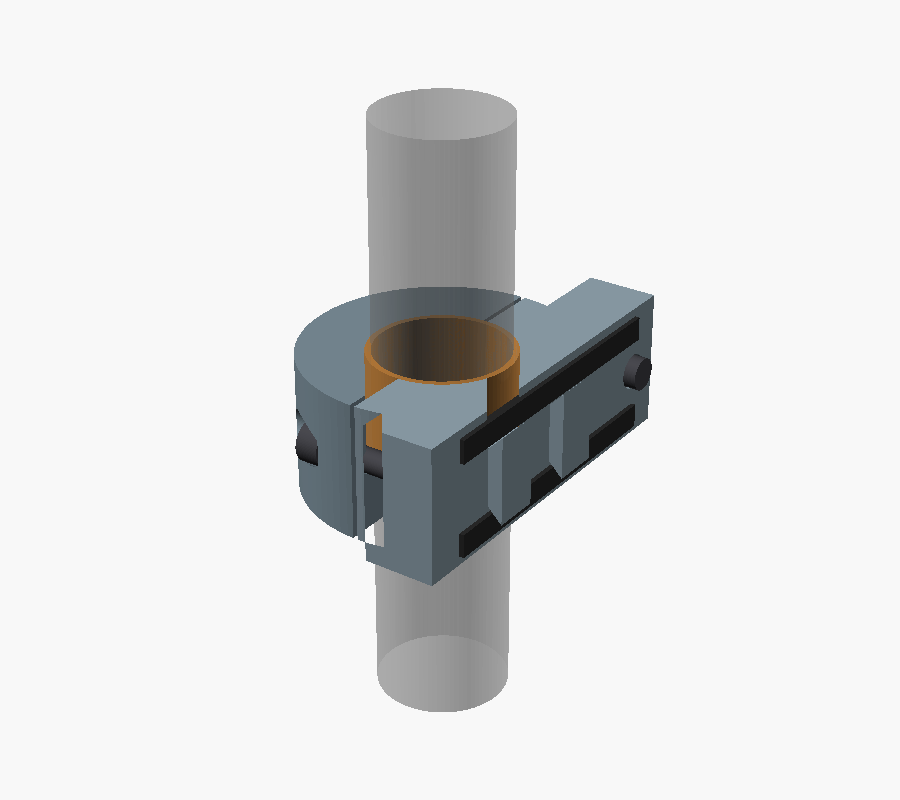
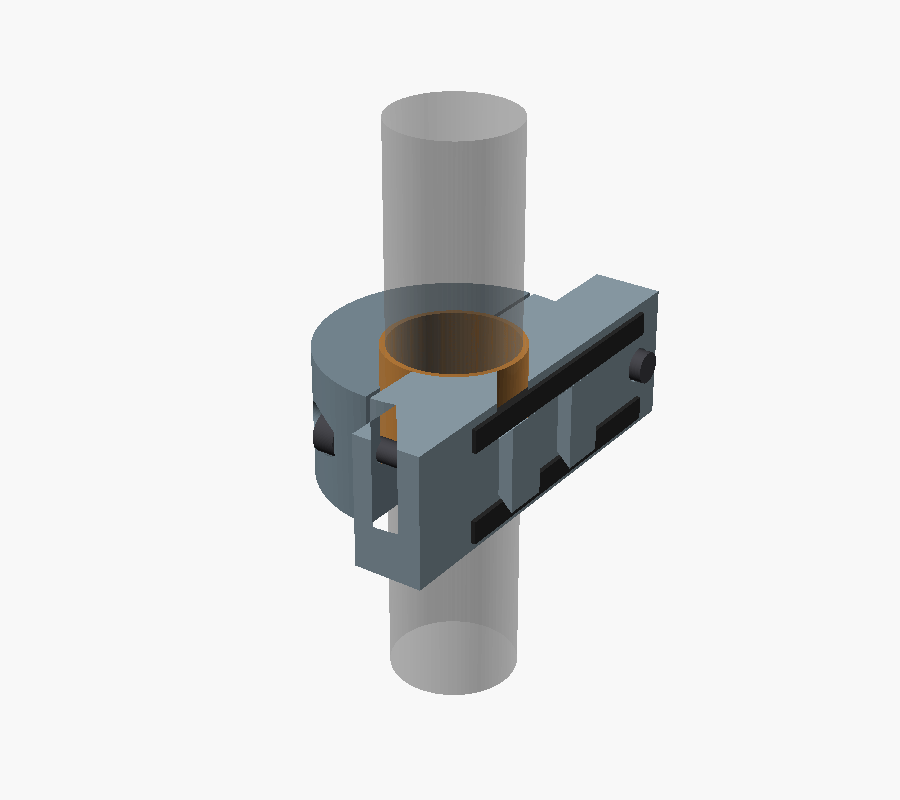
Charge V0.24 through a sealed USB-C receptacle
Replace the two brass charge contacts and the planned charging dock
with a charge-only IP67 USB-C receptacle in the remote's rear face,
above the dovetail groove. A small breakout PCB carries the 5.1 kohm
CC pull-downs; VBUS and GND go to the joystick PCB input. The wall is
thinned from inside for the panel gasket, and the base platform grows
to Y = 33.5 mm so it covers the receptacle on the bike.

No part is chosen yet: the receptacle sizes are typical values marked
MEASURE. Renders, the fitting animation and the docs are updated.

Changed region(s): [[0.3111, 0.125, 0.7467, 0.9062], [0.4356, 0.0938, 0.4978, 0.125]]

diff --git a/docs/mechanical-concept.md b/docs/mechanical-concept.md
@@ -1,6 +1,6 @@
 # Complete Mechanical CAD — V0.24 Removable Remote
 
-V0.24 makes the remote removable and battery powered, following the [battery study](battery-study.md) and issue #1. A base stays clamped on each bike; the remote slides onto it on an interrupted dovetail and is held by a spring-loaded lock. A fixed LiPo pouch powers it, and it is charged off the bike through two contacts on its back. Everything in front of the remote's rear face is the V0.23 pod, unchanged. The changes are listed under [Changes from V0.23](#changes-from-v023).
+V0.24 makes the remote removable and battery powered, following the [battery study](battery-study.md) and issue #1. A base stays clamped on each bike; the remote slides onto it on an interrupted dovetail and is held by a spring-loaded lock. A fixed LiPo pouch powers it, and it is charged off the bike through a sealed USB-C receptacle on its back. Everything in front of the remote's rear face is the V0.23 pod, unchanged. The changes are listed under [Changes from V0.23](#changes-from-v023).
 
 V0.23 fitted the V0.22 joystick to a real PCB, designed in KiCad: the [joystick PCB](../electronics/joystick-pcb/README.md) carries the four switches and the 5 V input protection. V0.22 put a joystick back on the lower facet, built from low-cost parts, and widened the control end of the pod from 23 to 26 mm. The base and the rear of the pod stay 23 mm wide along the bar.
 
@@ -22,13 +22,13 @@ The remote mounts on the left side of the bar only, never the right. The turn-si
 
 ![V0.24 base on the bar: the clamp ring, the platform with two dovetail rail segments, the two black TPU anti-rattle strips, and the lock screw head below the rails.](images/complete-remote-v0.24-base.png)
 
-![V0.24 remote seen from the bar side: the rear face with the lock hole (left), the interrupted dovetail groove (centre) and the two charge contacts (right).](images/complete-remote-v0.24-back.png)
+![V0.24 remote seen from the bar side: the rear face with the lock hole (left), the interrupted dovetail groove (centre) and the USB-C opening (right).](images/complete-remote-v0.24-back.png)
 
 ![V0.24 dovetail section through the lower rail: the 45-degree rail on the base (right) inside the groove in the remote's rear wall (left), and the TPU strips either side, drawn at their uncompressed thickness.](images/complete-remote-v0.24-dovetail.png)
 
 ![V0.24 section through the middle of the pod and the base.](images/complete-remote-v0.24-section.png)
 
-![V0.24 interior with the upper axial wall removed: the LiPo pouch envelope (red) in the lower rear of the cavity, below the XIAO; the charge contacts at the top of the rear wall.](images/complete-remote-v0.24-interior.png)
+![V0.24 interior with the upper axial wall removed: the LiPo pouch envelope (red) in the lower rear of the cavity, below the XIAO; the USB-C receptacle and its breakout PCB (green) at the top of the rear wall.](images/complete-remote-v0.24-interior.png)
 
 The control end is unchanged from V0.23. These V0.23 renders still show it:
 
@@ -52,7 +52,7 @@ All images are direct OpenSCAD renders of the V0.24 or V0.23 file. The PCB image
 
 ### Base and remote
 
-- **Base.** The clamp ring stays on the bar: two halves split through the bar axis, two M4 × 16 bolts, M4 inserts in the front half, a 1 mm TPU liner. Its outside grows from Ø44 to Ø46 mm, and the bolts move from ±17 to ±18.5 mm, so the same layout suits a 25.4 mm bore. In front of the bar the base is cut flat at X = −17.2 mm (`platform_x`), 3.5 mm in front of the 25.4 mm bore with its liner. That flat platform runs from Y = −36 to +27 mm.
+- **Base.** The clamp ring stays on the bar: two halves split through the bar axis, two M4 × 16 bolts, M4 inserts in the front half, a 1 mm TPU liner. Its outside grows from Ø44 to Ø46 mm, and the bolts move from ±17 to ±18.5 mm, so the same layout suits a 25.4 mm bore. In front of the bar the base is cut flat at X = −17.2 mm (`platform_x`), 3.5 mm in front of the 25.4 mm bore with its liner. That flat platform runs from Y = −36 to +33.5 mm.
 - **Bar sizes.** One base per bar size: `bar_diameter` = 22.2 (7/8 in) or 25.4 (1 in). The bore changes; nothing that meets the remote does. Tapered 28.6 mm bars come down to 22.2 mm at the controls.
 - **Remote.** The V0.23 pod without the ring and the shoulders, cut flat at X = −17.4 mm (`rear_x`). The cavity's rear wall moves from X = −22 to −21.2 mm, which gives the XIAO pins 2.2 mm instead of 1.4 mm.
 
@@ -87,7 +87,7 @@ The [battery study](battery-study.md) first proposed a bayonet turning around th
 ### Battery, charging and vent
 
 - **LiPo pouch.** A fixed pouch in the lower rear of the cavity, below the XIAO and behind the USB-C plug zone: envelope X = −29 to −22, Y = −33.5 to −2.5 mm, 21 mm along the bar. It takes a 6 × 20 × 30 mm pouch (602030, about 300 mAh in listings, not verified) with 0.5 mm all round. That space was free in V0.23 apart from the cable route; the earlier fit search had excluded everything below the fold. The pouch is held with foam tape and wired to the XIAO `BAT` pads.
-- **Charge contacts.** Two M2 brass heat-set inserts through the 3.8 mm rear wall, at Y = 24.5 mm and 3.5 mm from each axial face. They are above the groove, so the platform (to Y = +27 mm) covers them on the bike. Inside, M2 × 4 screws hold the wire ring tags; the wires go to the joystick PCB 5 V input, through its PTC fuse and TVS diode. A charging dock, a base-shaped block with two spring pins and a USB-C input, is not modelled yet.
+- **USB-C charging.** A charge-only (6-contact) IP67 USB-C receptacle in the rear face, centred at Y = 29.5 mm with its long side along the bar. It sits above the groove, so the platform (to Y = +33.5 mm) covers it on the bike; any USB-C cable charges the remote off the bike, and no charging dock is needed. The receptacle is on a small breakout PCB with the two 5.1 kΩ CC pull-downs, without which a USB-C charger supplies no 5 V. Its front is flush with the rear face; the wall is thinned from inside to 1.5 mm (`usbc_panel_t`) for its panel gasket. VBUS and GND go to the joystick PCB 5 V input, through its PTC fuse and TVS diode. This port only charges: the XIAO's own USB-C stays for programming. No specific part is chosen yet; the CAD uses typical sizes (shell 8.94 × 3.26 mm, gasket 10.8 × 5.2 mm, 7.5 mm deep), marked `MEASURE`. Earlier in this branch the charge path was two brass contacts and a charging dock; USB-C replaced them because it needs no dock, is keyed, and is a standard.
 - **No cable gland.** The bike cable, the gland and its lock nut are gone.
 - **Vent.** It moves from the axial wall to the bottom end wall at X = −32 mm, where the gland was, so the pouch does not cover it.
 
@@ -99,7 +99,7 @@ The LCSC land pattern for the KSC222JLFS (C221728) puts its pads 0.95 mm outside
 - **PCB outline.** A 20.6 × 22.4 mm rectangle with a 3.3 mm radius notch around each lower cover-screw boss. The boss ends reach 0.25 mm past the PCB front face, so the board must clear them. The CAD and the KiCad board use the same numbers.
 - **Rear zone.** 1.0 mm behind the whole board for solder joints, vias and screw heads, and 3.0 mm in the upper half and in the two side strips for the TVS diode (2.45 mm maximum), the PTC fuse and the soldered wires. The lower middle stays at 1.0 mm because a USB-C plug in the XIAO passes close behind it when the cover is off.
 - **PCB screws.** M2 × 8 button heads, at most Ø3.5 × 1.1 mm. A pan head (1.6 mm) would touch the 12 mm wide USB-C overmold envelope with the cover off.
-- **Power input.** The 5 V input goes to the joystick PCB, through a PTC fuse and a TVS diode, and the PCB feeds the XIAO's 5V pin. In V0.24 that input comes from the charge contacts instead of the bike cable.
+- **Power input.** The 5 V input goes to the joystick PCB, through a PTC fuse and a TVS diode, and the PCB feeds the XIAO's 5V pin. In V0.24 that input comes from the charging USB-C receptacle instead of the bike cable.
 - **Firmware.** The specification now describes the four-switch chord as the centre press; D7 is unused. The diagnostic sketch implements the chord; a separate centre switch on D7 remains as a build option for the breadboard.
 
 ## V0.22 changes from V0.21, still current
@@ -146,7 +146,7 @@ V0.22 keeps from V0.21 the sheet gasket and the plate that clamps it, and replac
 
 ## Interior space check
 
-The OpenSCAD console reports these values; the boolean checks below were run on the rendered meshes. The V0.24 checks cover the base, the dovetail, the lock, the pouch and the contacts. The control-end checks were run on V0.23 and not repeated: nothing in front of the remote's rear face changed except the rear wall, which moved 0.8 mm away from the controls.
+The OpenSCAD console reports these values; the boolean checks below were run on the rendered meshes. The V0.24 checks cover the base, the dovetail, the lock, the pouch and the USB-C receptacle. The control-end checks were run on V0.23 and not repeated: nothing in front of the remote's rear face changed except the rear wall, which moved 0.8 mm away from the controls.
 
 V0.24:
 
@@ -158,8 +158,9 @@ V0.24:
 | Remote part way along the slide (2, 4.5 and 7 mm from the stop) | No overlap with the base or the flush lock |
 | TPU strips vs remote | Overlap by design: the strips are compressed |
 | Lock knob vs base and bolts, locked and pulled | Contact only, where it rests on the platform block |
-| Pouch envelope vs housing, XIAO, USB-C plug (cover off), joystick, cover bosses, contacts, vent label | No overlap |
-| Charge-contact inserts and ring tags vs housing, XIAO, its rails, cover bosses | No overlap |
+| Pouch envelope vs housing, XIAO, USB-C plug (cover off), joystick, cover bosses, USB-C receptacle and PCB, vent label | No overlap |
+| USB-C receptacle, gasket and breakout PCB vs housing, XIAO, its rails, cover bosses, buttons, joystick | No overlap; the gasket only touches its land |
+| USB-C cable plug (12.4 × 6.5 mm overmold) vs housing, remote off the base | No overlap |
 | XIAO envelope vs housing | No overlap in place, nor 11 and 22 mm along its slide-in path |
 | XIAO pin tips to cavity rear wall | 2.2 mm |
 | Groove floor to cavity; lock hole bottom to cavity | 1.3 mm; 1.6 mm |
@@ -201,7 +202,7 @@ V0.24 aims for rain and spray resistance, not an IP rating. It has not been test
 1. **Buttons.** Use buttons rated for front-panel sealing (IP67 or better), with their panel gasket. This has not been verified for the APEM IS order codes; check the datasheets before buying.
 2. **Joystick.** The cover hole is open to the outside. The sheet gasket is the seal there: it is clamped all round the hole and grips the stick. A printed TPU sheet that flexes with every stick movement may tear or creep; a cast silicone sheet would last longer.
 3. **Cover joint.** The gasket and ten screws. On the lower facet the sheet is clamped over the whole facet. Elsewhere the land is the 2 mm wall of the wide part.
-4. **Charge contacts.** The two brass inserts pass through the rear wall. Pot them from inside with epoxy around the inserts and the ring tags. The groove and the lock hole are blind and do not open into the cavity.
+4. **USB-C.** Use a receptacle rated IP67 when unplugged, sealed through its body, with its panel gasket compressed on the thinned land. Pot the back of the receptacle and its PCB with epoxy as a second barrier. On the bike the platform covers it. The groove and the lock hole are blind and do not open into the cavity.
 5. **Vent.** An adhesive ePTFE vent label over the Ø3 mm hole in the bottom end wall, inside. Without it, temperature cycles pump humid air into a sealed box, and the water condenses inside. Mount the base so the vent faces down or sideways, not into spray.
 6. **Electronics.** Coat the XIAO, the joystick PCB and all solder joints with conformal coating (acrylic or silicone). Keep it off the USB-C socket, the switch actuators, the pouch, and the vent membrane.
 7. **Printed walls.** The narrow rear part still has 1 mm axial walls, only two perimeters with a 0.4 mm nozzle, and FDM layers can leak. Print PETG hot and slow for good layer bonding, or seal the outside with a thin coat of epoxy or lacquer.
@@ -223,7 +224,7 @@ V0.24 aims for rain and spray resistance, not an IP rating. It has not been test
 | Anti-rattle strips ×2 | not modelled as print parts | 4 × 50 × 1.4 mm | TPU, or cut from rubber sheet |
 
 No part needs supports.
-- **Housing:** the walls are vertical, the lower facet is an open edge in the air, the lower screw bosses lean 20°, and the cavity's rear wall bridges 21 mm. The XIAO rails have 45° chamfers. The groove is at the top: its lips narrow upward at 45°, and the lock and contact holes open upward. It stands on its thin front rim, so use a brim.
+- **Housing:** the walls are vertical, the lower facet is an open edge in the air, the lower screw bosses lean 20°, and the cavity's rear wall bridges 21 mm. The XIAO rails have 45° chamfers. The groove is at the top: its lips narrow upward at 45°, and the lock hole and the USB-C slot open upward; the gasket land is a shallow recess in the bridged rear wall. It stands on its thin front rim, so use a brim.
 - **Base front:** the rail flanks are at 45° to the bed. The lock pocket and the bolt holes run horizontally and are small enough to bridge.
 - **Cover:** the Ø5 mm stick hole is small enough to bridge. It stands on a 2.5 mm edge, so use a brim.
 - **Ball and disc:** the ball above the disc narrows upward. Test the press fit of the pin in the Ø2.95 mm bore (`pin_bore`) before assembly.
@@ -234,14 +235,14 @@ No part needs supports.
 ## Assembly
 
 Remote:
-1. Press the ten M2 inserts into the housing screw bosses, and the two M2 charge-contact inserts into the rear wall from outside, flush with the rear face.
+1. Press the ten M2 inserts into the housing screw bosses.
 2. Mount the three buttons in the cover.
 3. Solder the four KSC2 switches to the front of the joystick PCB, and the PTC fuse and TVS diode to the rear (or order the board assembled).
 4. Push the stick through the joystick plate from the back, so the ball sits in its seat. Screw the PCB onto the plate standoffs with two M2 × 8 button-head screws (head at most Ø3.5 × 1.1 mm); the disc rests on the switches.
 5. Solder six wires from the rear pads of the joystick PCB to the XIAO: U, D, L, R to D3–D6, G to GND and 5V to the 5V pin. Lead them away from the top edge of the PCB. Solder the button wires as before.
-6. Crimp or solder ring tags to two wires and screw them to the charge-contact inserts from inside with M2 × 4 screws. Solder the other ends to the VIN and GND pads on the rear of the joystick PCB. Mark which contact is positive on the rear face. Pot the inserts from inside.
+6. Solder two wires from VBUS and GND of the USB-C breakout PCB to the VIN and GND pads on the rear of the joystick PCB. Push the receptacle through its slot from inside, with its gasket on the land, and pot its back and the PCB with epoxy, keeping epoxy out of the opening.
 7. Slide the XIAO into the rails along +Y until it stops. Secure its free end with a drop of hot glue or silicone. Apply conformal coating to both boards.
-8. Solder the pouch leads to the XIAO `BAT` pads, red to `BAT+`. Stick the pouch to the rear wall in the lower rear of the cavity with foam tape. Check the polarity before connecting USB-C or the charge contacts.
+8. Solder the pouch leads to the XIAO `BAT` pads, red to `BAT+`. Stick the pouch to the rear wall in the lower rear of the cavity with foam tape. Check the polarity before connecting either USB-C port.
 9. Stick the vent label inside over the vent hole in the bottom end wall.
 10. Lay the cover face down and the gasket on it, folded at the fold line. Push the stick through the sheet hole and the cover hole, and lay the plate on the lower-facet sheet with its screw holes over the cover's.
 11. Lower the housing onto the stack; its walls locate the plate. Turn the assembly over and fit the six M2 × 8 screws on the upper facet and the four M2 × 10 screws on the lower facet. Tighten evenly in a cross pattern.
@@ -255,7 +256,7 @@ Base:
 
 Fitting: pull the lock knob, press the remote onto the platform 9 mm below its working position, and slide it up until it stops and the lock clicks in. Removal is the reverse.
 
-To program over USB, remove the remote from the base and its cover. Take the knob off first by loosening its grub screw. The USB-C socket is on the component side at the lower end of the board and opens toward the bottom of the pod; a plug fits there with the cover off. USB-C and the charge contacts are the same supply net: never connect both. Each opening disturbs the gasket, so BLE firmware updates remain a firmware requirement.
+To program over USB, remove the remote from the base and its cover. Take the knob off first by loosening its grub screw. The USB-C socket is on the component side at the lower end of the board and opens toward the bottom of the pod; a plug fits there with the cover off. The XIAO's USB-C and the charging USB-C are the same supply net: never connect both. Each opening disturbs the gasket, so BLE firmware updates remain a firmware requirement.
 
 ## Hardware
 
@@ -266,8 +267,7 @@ Remote:
 | M2 × 8 ISO 10642 countersunk screw (upper facet) | 6 |
 | M2 × 10 ISO 10642 countersunk screw (lower facet) | 4 |
 | M2 heat-set insert, about 4 mm long (hole Ø3.2 × 6 mm in CAD) | 10 |
-| M2 brass heat-set insert, up to 3.8 mm long (charge contacts) | 2 |
-| M2 × 4 screw and M2 ring tag (charge contacts) | 2 each |
+| IP67 USB-C receptacle, 6-contact, charge only, on a breakout PCB with two 5.1 kΩ CC pull-downs (part not chosen) | 1 |
 | LiPo pouch with protection board, 6 × 20 × 30 mm (602030), about 300 mAh in listings | 1 |
 | Double-sided foam tape (pouch) | small amount |
 | C&K KSC2 sealed tact switch, 2 N, J-bend (for example KSC222JLFS) | 4 |
@@ -306,11 +306,11 @@ V0.8 follows those functional and packaging cues while keeping original geometry
 | APEM reduced bezel option | 15 mm | APEM IS series options; confirm exact ordered variant |
 | KSC2 switch | 6.2 (+0.3) × 6.2 (+0.3) mm body, 3.5 mm to the actuator top, Ø2.9 mm actuator; 2 N, 0.35 ± 0.15 mm travel (KSC22x) | C&K KSC2 datasheet; modelled at 6.5 mm |
 | Handlebar | Ø22.2 mm (7/8 in) or Ø25.4 mm (1 in) | One base per bar size; measure the actual straight section |
-| Base clamp | Ø46 mm outer diameter, Ø24.2 or Ø27.4 mm bore, flat platform at X = −17.2 mm from Y = −36 to +27 mm | Diametral split into two halves with a 0.8 mm clamping gap; not strength-validated |
+| Base clamp | Ø46 mm outer diameter, Ø24.2 or Ø27.4 mm bore, flat platform at X = −17.2 mm from Y = −36 to +33.5 mm | Diametral split into two halves with a 0.8 mm clamping gap; not strength-validated |
 | Remote rear face | Flat at X = −17.4 mm | 0.2 mm clear of the platform |
 | Dovetail | Rails 10 mm wide at the platform, 15 mm at the top, 2.5 mm high, 45° flanks; two 8 mm segments with a 9 mm gap; 7 mm lips; 0.2 mm clearance; 9 mm slide | Prints without supports on both parts; clearance to tune on the first print |
 | Lock | M3 × 20 ISO 4762 head (Ø5.5 × 3 mm) 2 mm proud, in a Ø6 mm pocket at Y = −30 mm; Ø5.8 mm hole in the remote; Ø12 × 6 mm knob | ISO 4762 head size; spring not yet chosen |
-| Charge contacts | Two M2 inserts through the 3.8 mm rear wall at Y = 24.5 mm, 3.5 mm from each axial face | Covered by the platform on the bike |
+| USB-C receptacle | Opening centred at Y = 29.5 mm in the rear face, long side along the bar; shell 8.94 × 3.26 mm, gasket 10.8 × 5.2 mm on a 1.5 mm land, 7.5 mm deep | Typical sizes; covered by the platform on the bike |
 | LiPo pouch | 6 × 20 × 30 mm envelope with 0.5 mm clearance, X = −29 to −22, Y = −33.5 to −2.5 mm | 602030 listings; measure the bought cell |
 | Pod front corners | 3 mm radius | Leaves a flat cover face for the M2 screws |
 | Folded front | Upper facet normal to the pod axis; lower facet turned 20° toward the bar, fold 12.5 mm below the bar axis | Clears the thumb's path to the turn-signal switch; the angle is a parameter |
@@ -343,12 +343,12 @@ These are the only items that block a confident first print. Each is a parameter
 - **Buttons:** exact APEM IS order codes, sealing rating, nut sizes behind the panel, terminal length, and wire exit.
 - **Joystick:** measure the KSC2 height and the printed plate, ball and disc; together with the standoffs they set the 0.05 mm rest gap (`joy_rest_gap`). The feel (4.7° to trip, 2 N per direction, about 8 N for the centre chord) and the Ø16 mm knob need a check with gloves.
 - **XIAO:** PCB thickness, header spacer height, pin length, and component height. Adjust `xiao_pcb`, `xiao_header_plastic`, `xiao_pin_length`, and `xiao_component_h`; the render stops if the pins reach the rear wall.
-- **Inserts:** hole diameters and depths for the actual M4 and M2 inserts, and a charge-contact insert no longer than the 3.8 mm rear wall.
+- **Inserts:** hole diameters and depths for the actual M4 and M2 inserts.
 - **Handlebar and liner:** measured bar diameter, and the 0.8 mm clamping gap tuned to the printed TPU liner.
 - **Dovetail:** the 0.2 mm clearance (`dt_c`) against the printer, and the strip material and thickness for the preload. Whether the 0.48 mm the remote can move toward the platform feels loose on the buttons.
 - **Lock:** a spring that fits a Ø6 mm pocket over a Ø3 mm shank and holds the head out firmly; its compressed length sets `lock_spring_solid`. The pull force, and whether 1 mm of head in the pocket is enough.
 - **Pouch:** the bought cell's size, protection board and lead exit, and its maximum charge current against the XIAO's 50 or 100 mA.
-- **Charging dock:** not designed yet; it needs spring pins that meet the contacts on a base-shaped block.
+- **USB-C receptacle:** choose a sealed, charge-only part and its breakout PCB, then set the shell, gasket, panel thickness and depth (`usbc_*`). Confirm the IP rating in its datasheet.
 - **Vent:** label diameter and required hole size.
 - **Gasket:** material, whether 0.2 mm of compression seals on a 1 mm land, and how long a printed TPU sheet lasts flexing with the stick.
 - **Fold angle:** 20° is chosen to clear the turn-signal switch. The gland that kept it from 30° is gone in V0.24, but 30° has not been rechecked, and neither angle has been checked on a bike.

diff --git a/docs/battery-study.md b/docs/battery-study.md
@@ -10,7 +10,7 @@ Decided on 2026-10-10, after the first version of this study:
 - **The main goal of issue #1 is to share one remote between several bikes.**
 - **No wiring to the bike.** The remote runs on its own battery only.
 - **Removable remote or swappable battery, not both.** Each one alone solves the battery problem; together they add a second seal, a second wear point and pod length for little gain.
-- **Therefore: a removable remote with a fixed LiPo pouch**, on an [interrupted dovetail](#removable-remote-issue-1) with one base per bike. It is charged off the bike through [sealed contacts](#charging-without-bike-wiring) on its back.
+- **Therefore: a removable remote with a fixed LiPo pouch**, on an [interrupted dovetail](#removable-remote-issue-1) with one base per bike. It is charged off the bike through a [sealed USB-C receptacle](#charging-without-bike-wiring) on its back.
 - The swappable 16340 is not pursued. Its analysis stays below as the alternative for a remote that stays on one bike.
 
 A bayonet turning around the bar was the first proposal. The V0.24 CAD showed it clashes with the clamp bolts, so V0.24 uses a sliding dovetail instead; see [Why a dovetail](#why-a-sliding-dovetail).
@@ -43,7 +43,7 @@ From Seeed's XIAO nRF52840 V1.2 KiCad project, exported to a netlist with KiCad 
 Consequences:
 - **A rechargeable Li-ion or LiPo cell on the `BAT` pad is charged whenever the 5V pin or USB-C has power.** The charger enable is not wired to a GPIO, so the firmware cannot turn charging off.
 - **A primary lithium cell (CR2450, CR2477, CR123A) must not go on the `BAT` pad.** The charger would try to charge it whenever 5 V is present. A coin-cell design like the Remotek One needs its own board without a charger.
-- With 5 V present (charge contacts or USB-C), the remote runs from 5 V and charges the cell at the same time.
+- With 5 V present (either USB-C port), the remote runs from 5 V and charges the cell at the same time.
 
 ## Battery options
 
@@ -99,7 +99,7 @@ Two ways to connect the cell:
 
 | | A: cell on the XIAO `BAT` pad | B: cell into the 5V pin through a diode |
 |---|---|---|
-| Charging | On board, at 50 or 100 mA, from the charge contacts or USB-C; a 16340 could also go in an external charger | External charger only |
+| Charging | On board, at 50 or 100 mA, from either USB-C port; a 16340 could also go in an external charger | External charger only |
 | Voltage loss | Only the MOSFET | Two Schottky drops, ours and the XIAO's (about 0.4–0.6 V together). At 3.0 V the 3.3 V rail falls to about 2.5 V. |
 | Primary CR123A | Unsafe: it gets charged | Allowed, but only with a diode that blocks any charge current |
 | Battery voltage reading | Built-in divider on AIN7 | Needs a divider on another pin |
@@ -129,7 +129,7 @@ These are continuous-connection figures. With the firmware sleeping while the bi
 | Battery tube cap (new) | Radial O-ring on a smooth land inside the tube mouth, not on the thread | An FDM bore is rough and slightly oval; the land may need reaming, a glued-in sleeve, or a printed and sanded land. Measure leakage on a test piece. |
 | Cap electrical contact | Spring in the cap on the cell's negative end, closing through a contact ring at the tube mouth inside the O-ring | The contact and its wire stay inside the seal. Contacts corrode if water gets past the O-ring. |
 | Cable gland (V0.23) | Removed in V0.24 | — |
-| Charge contacts (V0.24) | Brass inserts through the rear wall, potted from inside | The potting must cover the insert knurl and the ring tag. |
+| Charging USB-C (V0.24) | IP67 receptacle with its panel gasket on a thinned land, potted from inside | Depends on the part chosen; covered by the base on the bike. |
 
 The tube is a separate sealed volume from the electronics cavity. Only two wires pass from the tube into the cavity, sealed when printed or potted. A leak at the cap then wets the cell and its contacts, not the boards.
 
@@ -170,18 +170,20 @@ A dovetail that slides along the pod's long axis, in the plane of the clamp, avo
 
 ## Charging without bike wiring
 
-The remote is charged off the bike. The XIAO USB-C socket is inside the pod and can only be reached with the cover off, which disturbs the gasket. It stays for firmware recovery only.
+The remote is charged off the bike. The XIAO USB-C socket is inside the pod and can only be reached with the cover off, which disturbs the gasket. It stays for programming and firmware recovery only.
 
-- **Charge contacts.** V0.24 uses two M2 brass inserts through the remote's rear wall, above the dovetail groove. They are wired to the joystick PCB 5 V input and GND in place of the bike cable, so they go through its TVS diode and PTC fuse to the XIAO 5V pin.
-- **Covered when mounted.** On the base the contacts face the platform, out of the rain and mud.
-- **Dead when off the charger.** The XIAO feeds VIN from VBUS through a Schottky diode, and the battery reaches VIN through the power-path MOSFET. Neither path drives VBUS, so the pads carry no voltage when the remote runs on its battery. They cannot corrode from bias, and shorting them does no harm. This comes from the netlist and has not been measured.
-- **Charger.** A small charging dock: a base-shaped block with the same rails, two spring pins under the contacts and a USB-C input. Not designed yet.
+- **Charging USB-C.** V0.24 has a second, sealed USB-C receptacle in the remote's rear face, above the dovetail groove. It is charge-only: VBUS and GND go to the joystick PCB 5 V input, so they pass its TVS diode and PTC fuse to the XIAO 5V pin. Any USB-C cable and charger work, so no charging dock is needed.
+- **CC pull-downs.** A USB-C charger only supplies 5 V when the device pulls both CC lines down through 5.1 kΩ. The receptacle sits on a small breakout PCB that carries them.
+- **Covered when mounted.** On the base the receptacle faces the platform, out of the rain and mud. To charge, take the remote off.
+- **Dead when unplugged.** The XIAO feeds VIN from VBUS through a Schottky diode, and the battery reaches VIN through the power-path MOSFET. Neither path drives VBUS, so the receptacle carries no voltage when the remote runs on its battery. Its contacts cannot corrode from bias. This comes from the netlist and has not been measured.
 - **No cable gland.** The bike cable goes, so the gland and its lock nut go too. The gland lock nut set the 20° fold limit. The freed space at the bottom of the pod now holds the pouch.
 
+An earlier step of this branch used two bare brass contacts and a charging dock with spring pins. USB-C replaced them: it needs no dock, it only fits one way, and it is a standard. The contacts' only advantage was dropping the remote onto a dock without plugging a cable in.
+
 Points to solve:
-- **Sealing.** The inserts are a new opening in the remote's rear wall. Pot them from inside.
-- **Reverse polarity.** Bare contacts are not keyed. On the joystick PCB a reversed supply makes the TVS diode D1 conduct and the PTC fuse F1 trip ([joystick PCB notes](../electronics/joystick-pcb/README.md#circuit)). So a reversed charger should not reach the XIAO, but it heats D1 and F1 until it is removed. The dock's rails key it: the remote only slides on one way round.
-- **USB-C and pads together.** Both are the XIAO VBUS net. Do not connect both at once; with the cover off on the bench this is the user's care.
+- **Part choice.** A receptacle rated IP67 when unplugged, sealed through its body, with a panel gasket. The CAD uses typical sizes until a part is chosen.
+- **Sealing.** Pot the back of the receptacle and its PCB from inside as a second barrier.
+- **Two USB-C ports.** The XIAO's USB-C and the charging receptacle are the same VBUS net. Never connect both at once; with the cover off on the bench this is the user's care.
 
 ## Universal fit
 
@@ -205,7 +207,7 @@ These are bench measurements on the parts, not on bikes:
 
 - **Battery level.** Read AIN7 with P0.14 low. Report it over the BLE Battery Service; Bluefruit has `BLEBas`. Warn below about 3.5 V. Go to System OFF below about 3.3 V, ahead of the cell's protection cut-off.
 - **Charging.** Read P0.17 (`CHG`). Drive P0.13 low for 100 mA only if the cell allows it.
-- **Charger present.** The nRF52840 VBUS pin is on the same net as the 5V pin. Its USB power events can tell the firmware that the charge contacts are powered, for example to show charging or to stop advertising while on the charger.
+- **Charger present.** The nRF52840 VBUS pin is on the same net as the 5V pin. Its USB power events can tell the firmware that a charger is connected, for example to show charging or to stop advertising while on the charger.
 - **Sleep and wake.** When parked, or idle for a set time, go to System OFF and wake on any button or joystick switch through GPIO sense. Measure how long a bonded phone takes to reconnect, and whether the first press after wake is lost.
 - **Connection parameters.** Measure average current against connection interval and peripheral latency, against the input delay the rider notices.
 
@@ -223,14 +225,13 @@ Made:
 1. Removable remote with a fixed LiPo pouch; no swappable cell.
 2. Architecture A: the pouch on the XIAO `BAT` pad, charged on board.
 3. No bike wiring and no base contacts. The base is mechanical only.
-
 4. A sliding interrupted dovetail on a flat platform, with a spring-loaded M3 lock (V0.24). No saddle around the ring.
-5. Bare brass contacts and a charging dock, rather than a magnetic connector.
+5. A sealed, charge-only USB-C receptacle for charging, rather than contacts and a dock.
 
 Still open, after the [measurements](#open-measurements):
 1. Pouch size: 6 mm (modelled) or 8 mm thick.
 2. The dovetail clearance and strip preload, on the first print.
-3. The charging dock design.
+3. The USB-C receptacle part, and its real dimensions in the CAD.
 
 ## Sources
 
